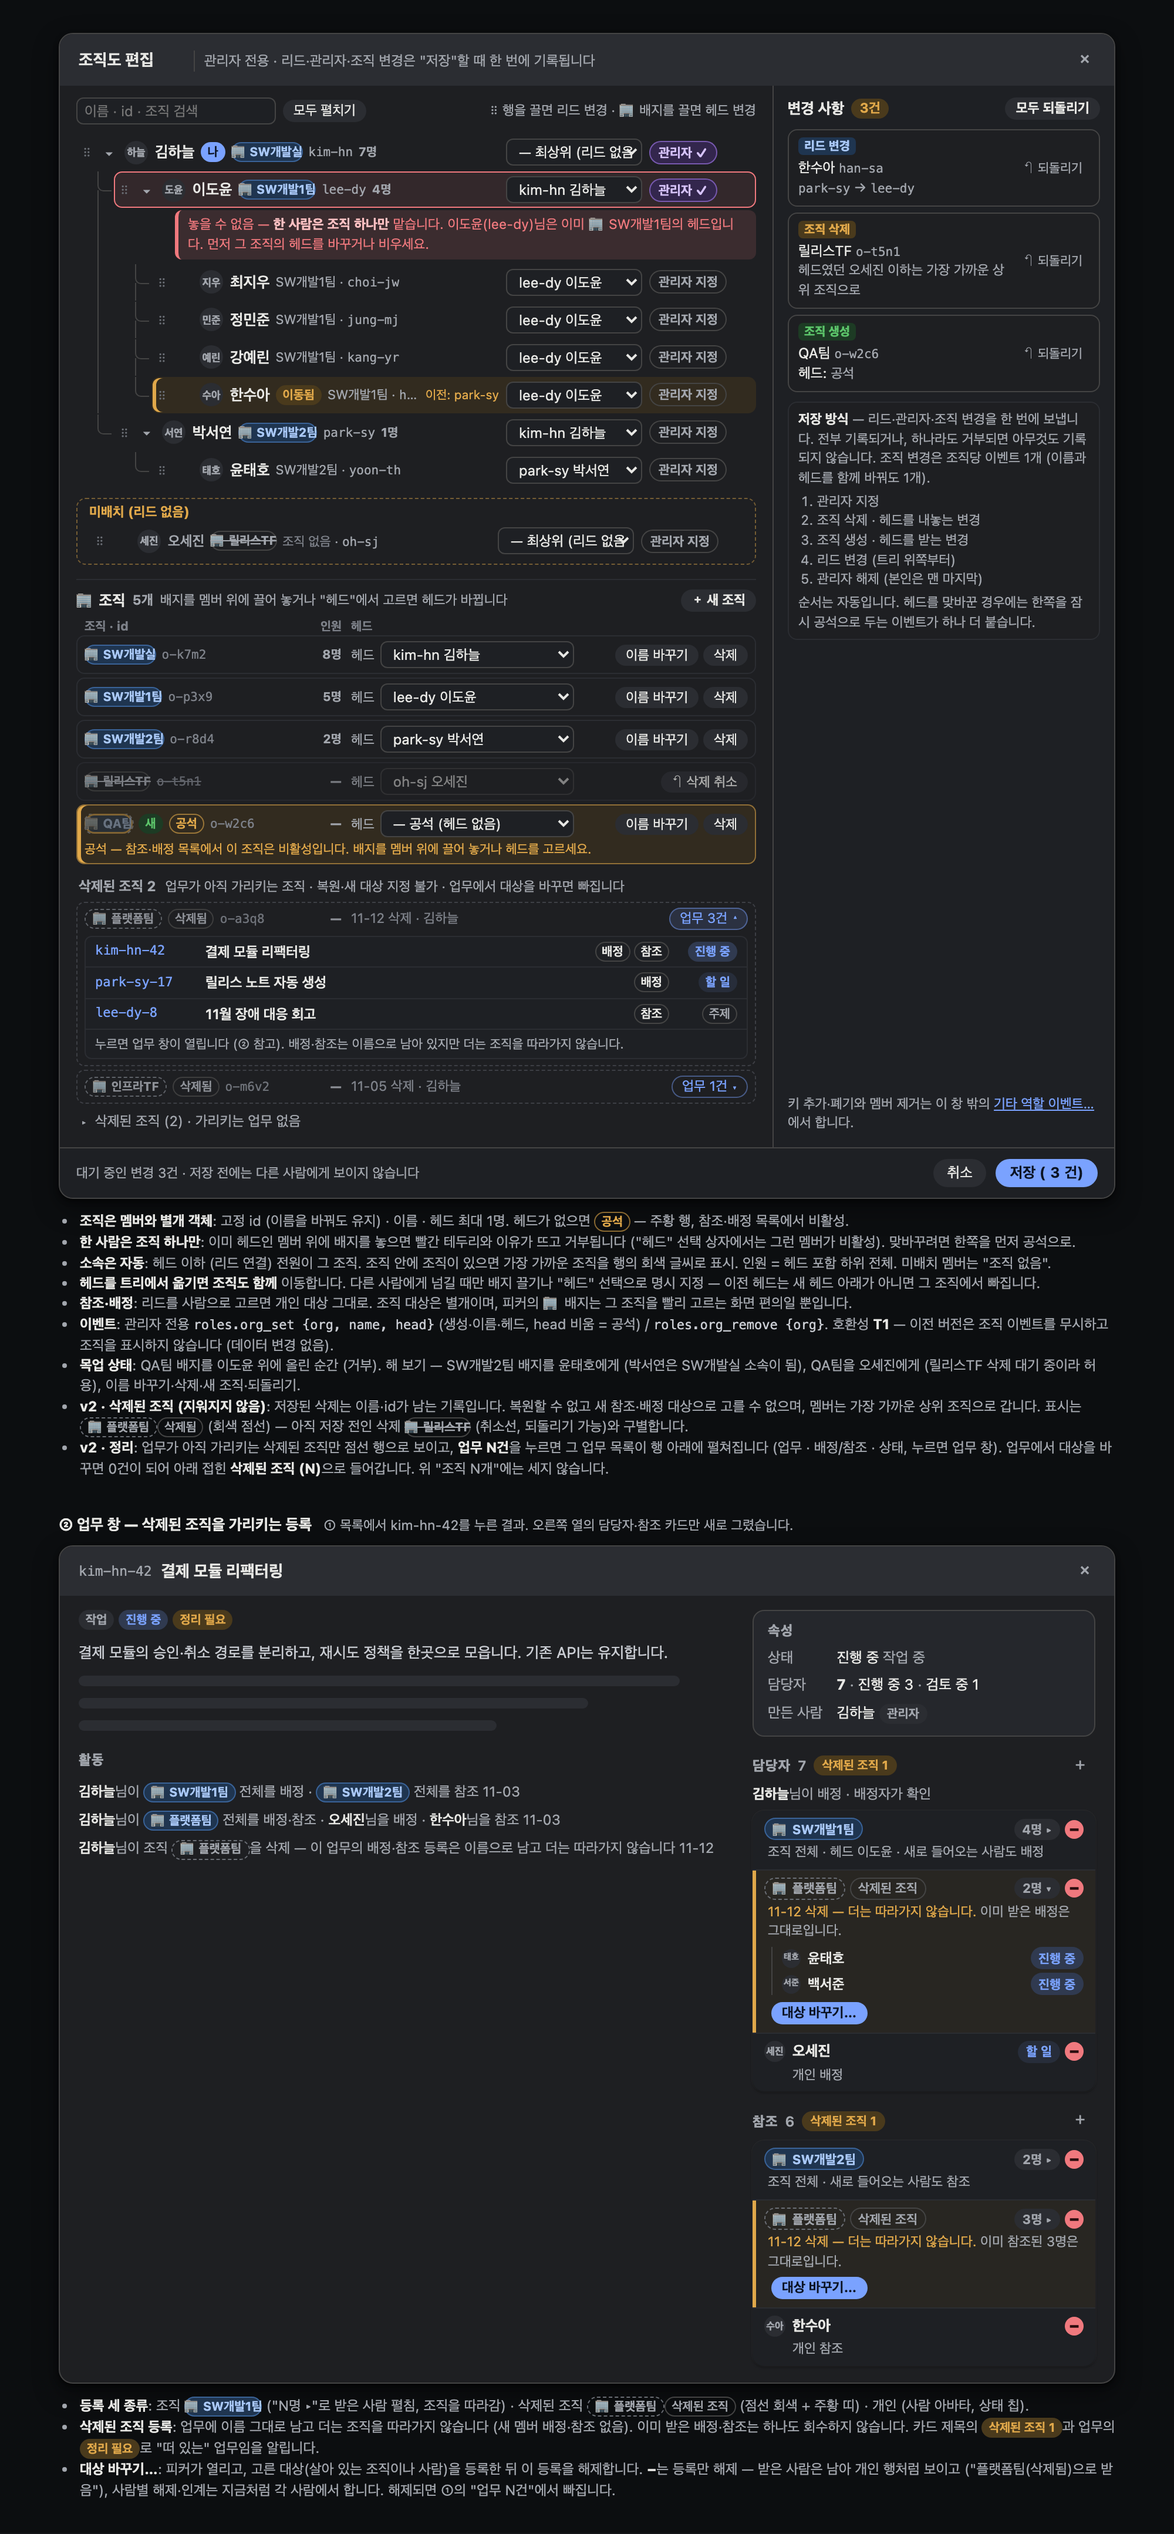
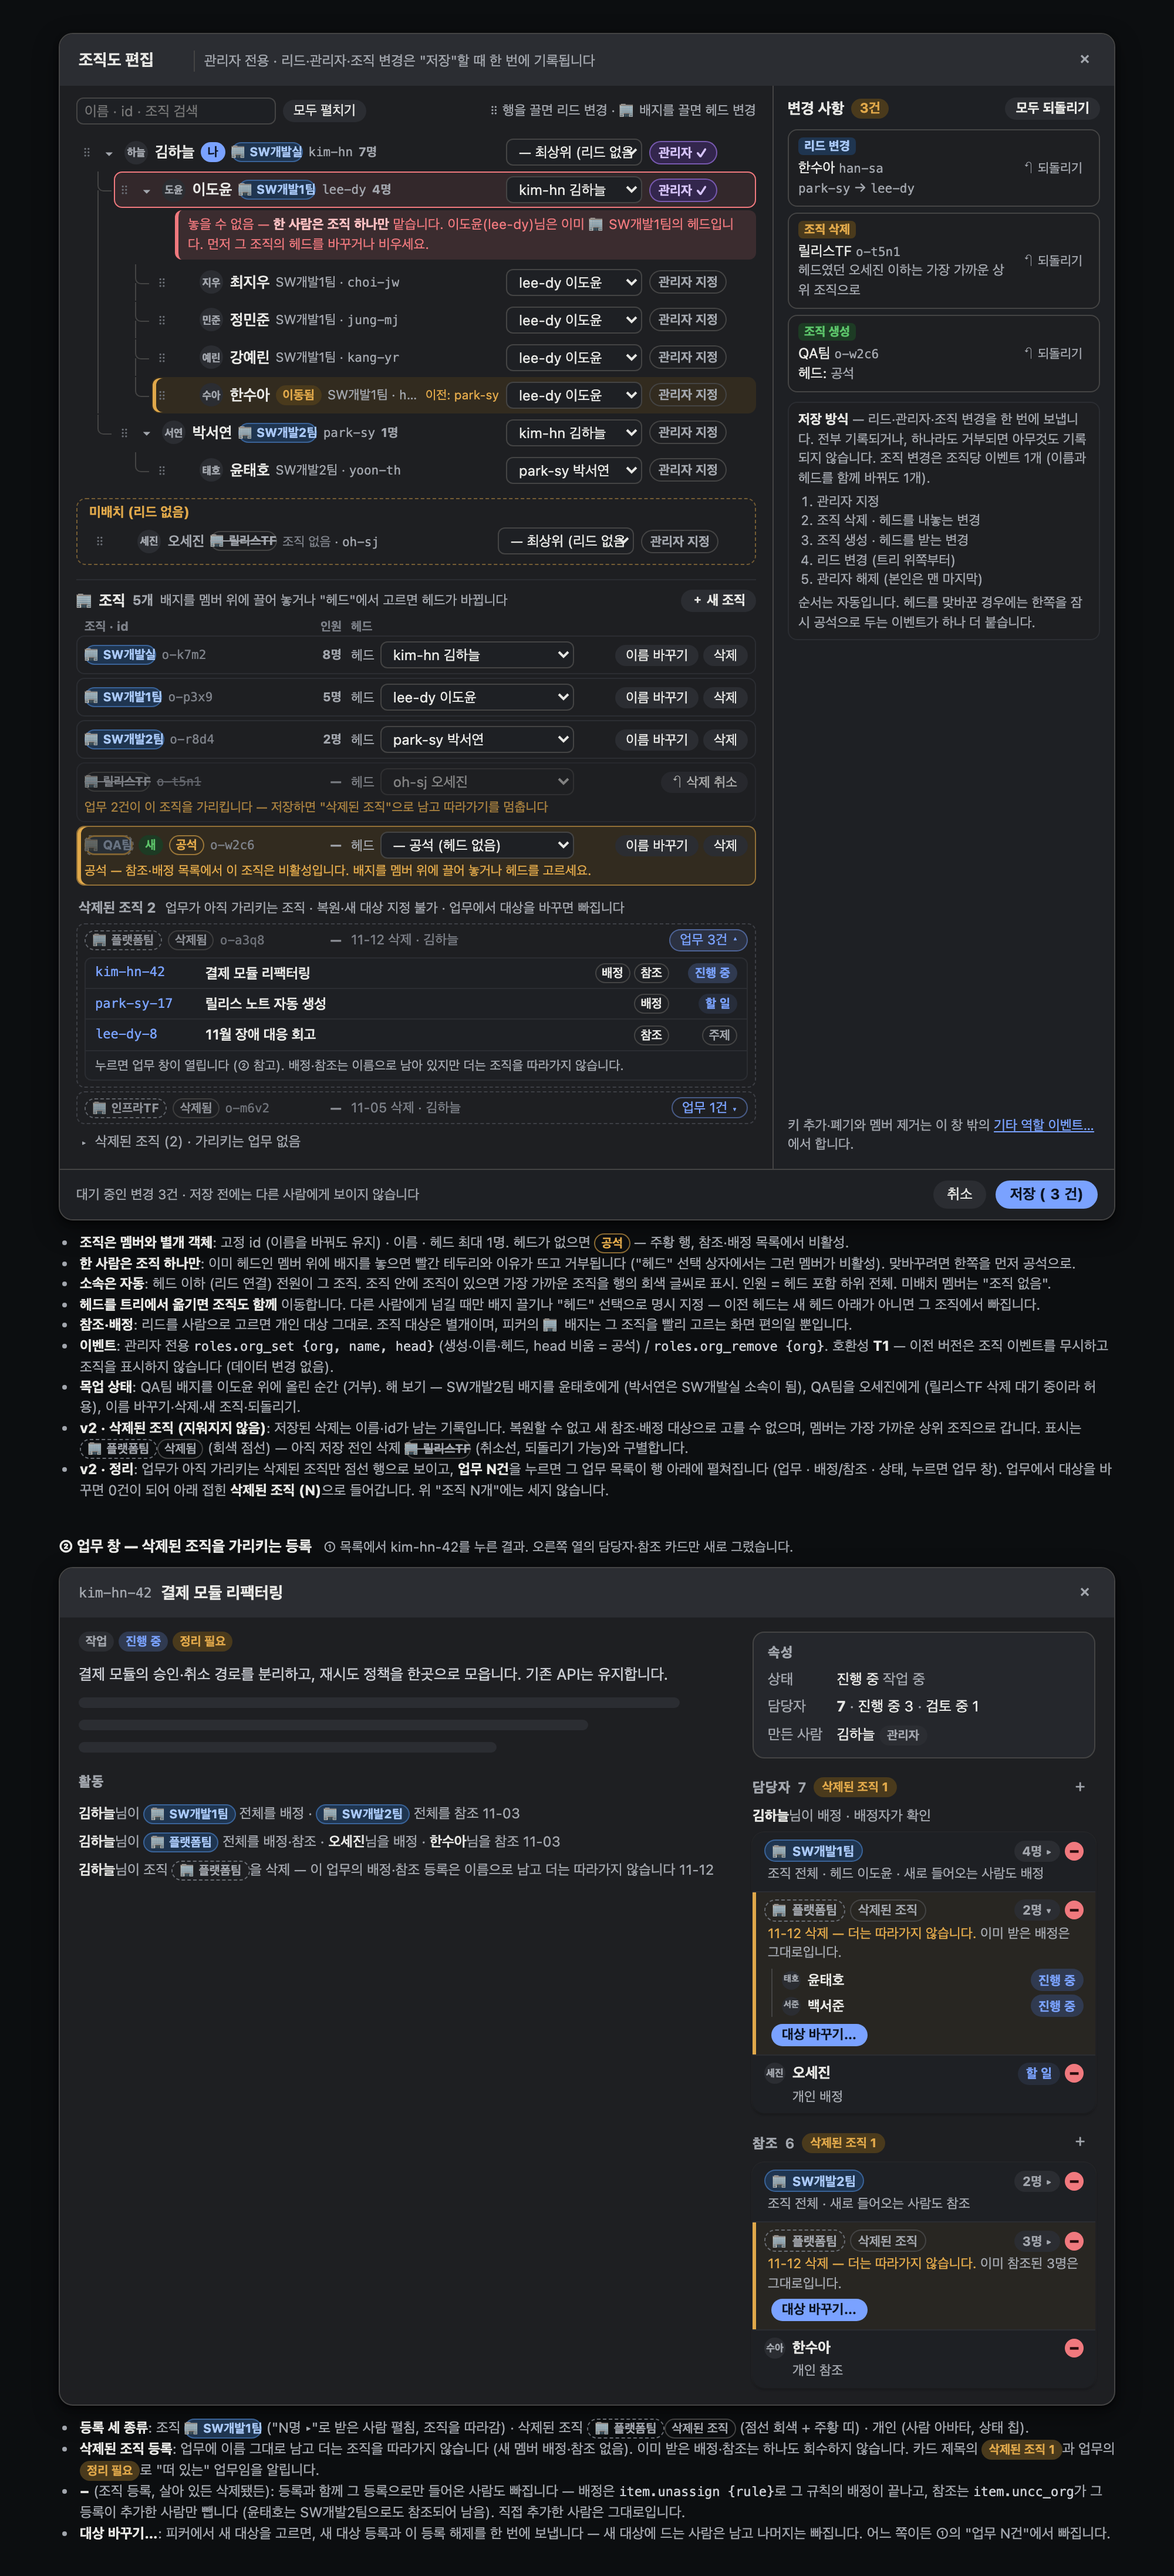
docs(mockups): settle org registration removal in org-entity v2
Frame ② now states the settled removal semantics. "−" on an org registration (live or deleted) removes the registration and the people it alone brought in: assign via item.unassign {rule}, CC via item.uncc_org by provenance. Personally added people stay. "대상 바꾸기…" sends the new target and the old registration's removal in one batch.

The staged 릴리스TF deletion row warns that 2 items reference the org and that saving leaves it as "삭제된 조직". PNG re-rendered.

## AI Context
- Removal semantics come from the parent lead's message (owner chose provenance for CC; assign uses the existing item.unassign {rule}). The earlier 'kept people become personal rows' text is dropped.
- The staged-deletion warning reuses the approved .vh line style and is emitted both in static HTML and in ogRow() via an r (reference count) field on the org model, so it survives the script redraw; other rows unchanged.
- Deleted-org rows still say granted access is kept: that describes deletion itself (nothing revoked), not registration removal.

diff --git a/ai-docs/assets/mockups/261120/tracker-org-entity/editor-v2.html b/ai-docs/assets/mockups/261120/tracker-org-entity/editor-v2.html
@@ -281,7 +281,8 @@
               <span class="acts"><button type="button" class="btn mini" data-a="ren" data-k="o-r8d4">이름 바꾸기</button><button type="button" class="btn mini dng" data-a="del" data-k="o-r8d4">삭제</button></span></li>
             <li class="og del" data-k="o-t5n1"><span class="nmc"><span class="chip org del" title="삭제 예정">🏢 릴리스TF</span><code>o-t5n1</code></span><span class="cnt">—</span>
               <label class="hs">헤드 <select data-k="o-t5n1" aria-label="릴리스TF 헤드" disabled><option value="oh-sj" selected>oh-sj 오세진</option></select></label>
-              <span class="acts"><button type="button" class="btn mini" data-a="undo" data-k="o-t5n1">↶ 삭제 취소</button></span></li>
+              <span class="acts"><button type="button" class="btn mini" data-a="undo" data-k="o-t5n1">↶ 삭제 취소</button></span>
+              <span class="vh">업무 2건이 이 조직을 가리킵니다 — 저장하면 "삭제된 조직"으로 남고 따라가기를 멈춥니다</span></li>
             <li class="og vac" data-k="o-w2c6"><span class="nmc"><span class="chip org pend drag" draggable="true" data-org="o-w2c6">🏢 QA팀</span><span class="chip new">새</span><span class="chip vac">공석</span><code>o-w2c6</code></span><span class="cnt">—</span>
               <label class="hs">헤드 <select data-k="o-w2c6" aria-label="QA팀 헤드"><option value="" selected>— 공석 (헤드 없음)</option></select></label>
               <span class="acts"><button type="button" class="btn mini" data-a="ren" data-k="o-w2c6">이름 바꾸기</button><button type="button" class="btn mini dng" data-a="del" data-k="o-w2c6">삭제</button></span>
@@ -382,15 +383,15 @@
           <div class="a-common muted"><b style="color:var(--fg)">김하늘</b>님이 배정 · 배정자가 확인</div>
           <ul class="alist">
             <li class="arow grp shut"><div class="ar-main"><span class="ar-name"><span class="chip org">🏢 SW개발1팀</span></span>
-                <span class="ar-st"><button type="button" class="fold" data-x="fold" aria-expanded="false">4명 ▸</button><button type="button" class="rmb" aria-label="SW개발1팀 등록 해제" title="등록 해제 — 앞으로 들어오는 사람은 배정되지 않음 (이미 받은 배정은 유지)">−</button></span></div>
+                <span class="ar-st"><button type="button" class="fold" data-x="fold" aria-expanded="false">4명 ▸</button><button type="button" class="rmb" aria-label="SW개발1팀 등록 해제" title="등록 해제 — SW개발1팀으로만 배정된 사람의 배정도 끝남 (직접 배정한 사람은 유지)">−</button></span></div>
               <div class="ar-diff">조직 전체 · 헤드 이도윤 · 새로 들어오는 사람도 배정</div>
               <ul class="sub"><li><i class="av">도윤</i><span class="n">이도윤</span><span class="chip s-doing">진행 중</span></li><li><i class="av">지우</i><span class="n">최지우</span><span class="chip s-rev">검토 중</span></li>
                 <li><i class="av">민준</i><span class="n">정민준</span><span class="chip s-todo">할 일</span></li><li><i class="av">예린</i><span class="n">강예린</span><span class="chip s-todo">할 일</span></li></ul></li>
             <li class="arow grp float"><div class="ar-main"><span class="ar-name"><span class="chip org gone" title="삭제된 조직 — 이름만 남아 있습니다">🏢 플랫폼팀</span><span class="chip dtag">삭제된 조직</span></span>
-                <span class="ar-st"><button type="button" class="fold" data-x="fold" aria-expanded="true">2명 ▾</button><button type="button" class="rmb" aria-label="플랫폼팀 등록 해제" title="등록 해제 — 이미 받은 배정 2건은 유지">−</button></span></div>
+                <span class="ar-st"><button type="button" class="fold" data-x="fold" aria-expanded="true">2명 ▾</button><button type="button" class="rmb" aria-label="플랫폼팀 등록 해제" title="등록 해제 — 이 등록으로만 배정된 2명의 배정도 끝남 (직접 배정한 사람은 유지)">−</button></span></div>
               <div class="ar-diff"><span class="w">11-12 삭제 — 더는 따라가지 않습니다.</span> 이미 받은 배정은 그대로입니다.</div>
               <ul class="sub"><li><i class="av">태호</i><span class="n">윤태호</span><span class="chip s-doing">진행 중</span></li><li><i class="av">서준</i><span class="n">백서준</span><span class="chip s-doing">진행 중</span></li></ul>
-              <div class="atb"><button type="button" class="btn mini primary" title="피커가 열립니다. 고른 대상을 배정하고 이 등록을 해제합니다">대상 바꾸기…</button></div></li>
+              <div class="atb"><button type="button" class="btn mini primary" title="피커가 열립니다. 적용하면 새 대상 배정과 이 등록 해제를 한 번에 보냅니다">대상 바꾸기…</button></div></li>
             <li class="arow"><div class="ar-main"><i class="av">세진</i><span class="ar-name">오세진</span><span class="ar-st"><span class="chip s-todo">할 일</span><button type="button" class="rmb" aria-label="오세진 배정 해제" title="배정 해제">−</button></span></div>
               <div class="ar-diff">개인 배정</div></li>
           </ul>
@@ -401,14 +402,14 @@
           <h3>참조 <span class="cnt">6</span><span class="chip flt" title="삭제된 조직을 가리키는 등록 1개">삭제된 조직 1</span><span class="grow"></span><button type="button" class="ia" aria-label="참조에 추가" title="참조에 추가">＋</button></h3>
           <ul class="alist">
             <li class="arow grp shut"><div class="ar-main"><span class="ar-name"><span class="chip org">🏢 SW개발2팀</span></span>
-                <span class="ar-st"><button type="button" class="fold" data-x="fold" aria-expanded="false">2명 ▸</button><button type="button" class="rmb" aria-label="SW개발2팀 참조 해제" title="참조 해제 — 앞으로 들어오는 사람은 참조되지 않음 (이미 참조된 사람은 유지)">−</button></span></div>
+                <span class="ar-st"><button type="button" class="fold" data-x="fold" aria-expanded="false">2명 ▸</button><button type="button" class="rmb" aria-label="SW개발2팀 참조 해제" title="참조 해제 — SW개발2팀으로만 참조된 사람도 빠짐 (직접 참조한 사람은 유지)">−</button></span></div>
               <div class="ar-diff">조직 전체 · 새로 들어오는 사람도 참조</div>
               <ul class="sub"><li><i class="av">서연</i><span class="n">박서연</span></li><li><i class="av">태호</i><span class="n">윤태호</span></li></ul></li>
             <li class="arow grp shut float"><div class="ar-main"><span class="ar-name"><span class="chip org gone" title="삭제된 조직 — 이름만 남아 있습니다">🏢 플랫폼팀</span><span class="chip dtag">삭제된 조직</span></span>
-                <span class="ar-st"><button type="button" class="fold" data-x="fold" aria-expanded="false">3명 ▸</button><button type="button" class="rmb" aria-label="플랫폼팀 참조 해제" title="등록 해제 — 이미 참조된 3명은 유지">−</button></span></div>
+                <span class="ar-st"><button type="button" class="fold" data-x="fold" aria-expanded="false">3명 ▸</button><button type="button" class="rmb" aria-label="플랫폼팀 참조 해제" title="등록 해제 — 이 등록으로만 참조된 사람도 빠짐 (윤태호는 SW개발2팀으로도 참조되어 남음)">−</button></span></div>
               <div class="ar-diff"><span class="w">11-12 삭제 — 더는 따라가지 않습니다.</span> 이미 참조된 3명은 그대로입니다.</div>
               <ul class="sub"><li><i class="av">태호</i><span class="n">윤태호</span></li><li><i class="av">서준</i><span class="n">백서준</span></li><li><i class="av">하준</i><span class="n">문하준</span></li></ul>
-              <div class="atb"><button type="button" class="btn mini primary" title="피커가 열립니다. 고른 대상을 참조하고 이 등록을 해제합니다">대상 바꾸기…</button></div></li>
+              <div class="atb"><button type="button" class="btn mini primary" title="피커가 열립니다. 적용하면 새 대상 참조와 이 등록 해제를 한 번에 보냅니다">대상 바꾸기…</button></div></li>
             <li class="arow"><div class="ar-main"><i class="av">수아</i><span class="ar-name">한수아</span><span class="ar-st"><button type="button" class="rmb" aria-label="한수아 참조 해제" title="참조 해제">−</button></span></div>
               <div class="ar-diff">개인 참조</div></li>
           </ul>
@@ -419,7 +420,8 @@
   <ul class="legend">
     <li><b>등록 세 종류</b>: 조직 <span class="chip org">🏢 SW개발1팀</span> ("N명 ▸"로 받은 사람 펼침, 조직을 따라감) · 삭제된 조직 <span class="chip org gone">🏢 플랫폼팀</span><span class="chip dtag">삭제된 조직</span> (점선 회색 + 주황 띠) · 개인 (사람 아바타, 상태 칩).</li>
     <li><b>삭제된 조직 등록</b>: 업무에 이름 그대로 남고 더는 조직을 따라가지 않습니다 (새 멤버 배정·참조 없음). 이미 받은 배정·참조는 하나도 회수하지 않습니다. 카드 제목의 <span class="chip flt">삭제된 조직 1</span>과 업무의 <span class="chip flt">정리 필요</span>로 "떠 있는" 업무임을 알립니다.</li>
-    <li><b>대상 바꾸기…</b>: 피커가 열리고, 고른 대상(살아 있는 조직이나 사람)을 등록한 뒤 이 등록을 해제합니다. <b>−</b>는 등록만 해제 — 받은 사람은 남아 개인 행처럼 보이고 ("플랫폼팀(삭제됨)으로 받음"), 사람별 해제·인계는 지금처럼 각 사람에서 합니다. 해제되면 ①의 "업무 N건"에서 빠집니다.</li>
+    <li><b>−</b> (조직 등록, 살아 있든 삭제됐든): 등록과 함께 그 등록으로만 들어온 사람도 빠집니다 — 배정은 <code>item.unassign {rule}</code>로 그 규칙의 배정이 끝나고, 참조는 <code>item.uncc_org</code>가 그 등록이 추가한 사람만 뺍니다 (윤태호는 SW개발2팀으로도 참조되어 남음). 직접 추가한 사람은 그대로입니다.</li>
+    <li><b>대상 바꾸기…</b>: 피커에서 새 대상을 고르면, 새 대상 등록과 이 등록 해제를 한 번에 보냅니다 — 새 대상에 드는 사람은 남고 나머지는 빠집니다. 어느 쪽이든 ①의 "업무 N건"에서 빠집니다.</li>
   </ul>
 </div>
 
@@ -430,7 +432,7 @@
   var T = '끌어서 멤버 위에 놓으면 그 멤버가 헤드가 됩니다', ARR = '<span class="arr">→</span>';
   // n0/h0 = saved name/head; n/h = staged; st: '' | 'new' | 'del'
   var O = { 'o-k7m2': { n0: 'SW개발실', h0: 'kim-hn' }, 'o-p3x9': { n0: 'SW개발1팀', h0: 'lee-dy' }, 'o-r8d4': { n0: 'SW개발2팀', h0: 'park-sy' },
-    'o-t5n1': { n0: '릴리스TF', h0: 'oh-sj', st: 'del' }, 'o-w2c6': { n0: 'QA팀', h0: '', st: 'new' } };
+    'o-t5n1': { n0: '릴리스TF', h0: 'oh-sj', st: 'del', r: 2 }, 'o-w2c6': { n0: 'QA팀', h0: '', st: 'new' } };
   Object.keys(O).forEach(function (k) { var o = O[k]; o.n = o.n0; o.h = o.h0; o.st = o.st || ''; });
   R.querySelectorAll('li[data-id]').forEach(function (li) { M[li.dataset.id] = li; });
   var fixed = R.querySelector('.chg [data-fixed]').outerHTML;
@@ -475,7 +477,7 @@
       '<label class="hs">헤드 <select data-k="' + k + '" aria-label="' + esc(o.n) + ' 헤드"' + (del ? ' disabled' : '') + '>' + opts(k) + '</select></label><span class="acts">' +
       (del ? '<button type="button" class="btn mini" data-a="undo" data-k="' + k + '">↶ 삭제 취소</button>'
            : '<button type="button" class="btn mini" data-a="ren" data-k="' + k + '">이름 바꾸기</button><button type="button" class="btn mini dng" data-a="del" data-k="' + k + '">삭제</button>') +
-      '</span>' + (vac ? '<span class="vh">공석 — 참조·배정 목록에서 이 조직은 비활성입니다. 배지를 멤버 위에 끌어 놓거나 헤드를 고르세요.</span>' : '') + errHtml(k) + '</li>';
+      '</span>' + (del && o.r ? '<span class="vh">업무 ' + o.r + '건이 이 조직을 가리킵니다 — 저장하면 "삭제된 조직"으로 남고 따라가기를 멈춥니다</span>' : '') + (vac ? '<span class="vh">공석 — 참조·배정 목록에서 이 조직은 비활성입니다. 배지를 멤버 위에 끌어 놓거나 헤드를 고르세요.</span>' : '') + errHtml(k) + '</li>';
   }
   function chgItem(k) {
     var o = O[k], ty, d = [];
